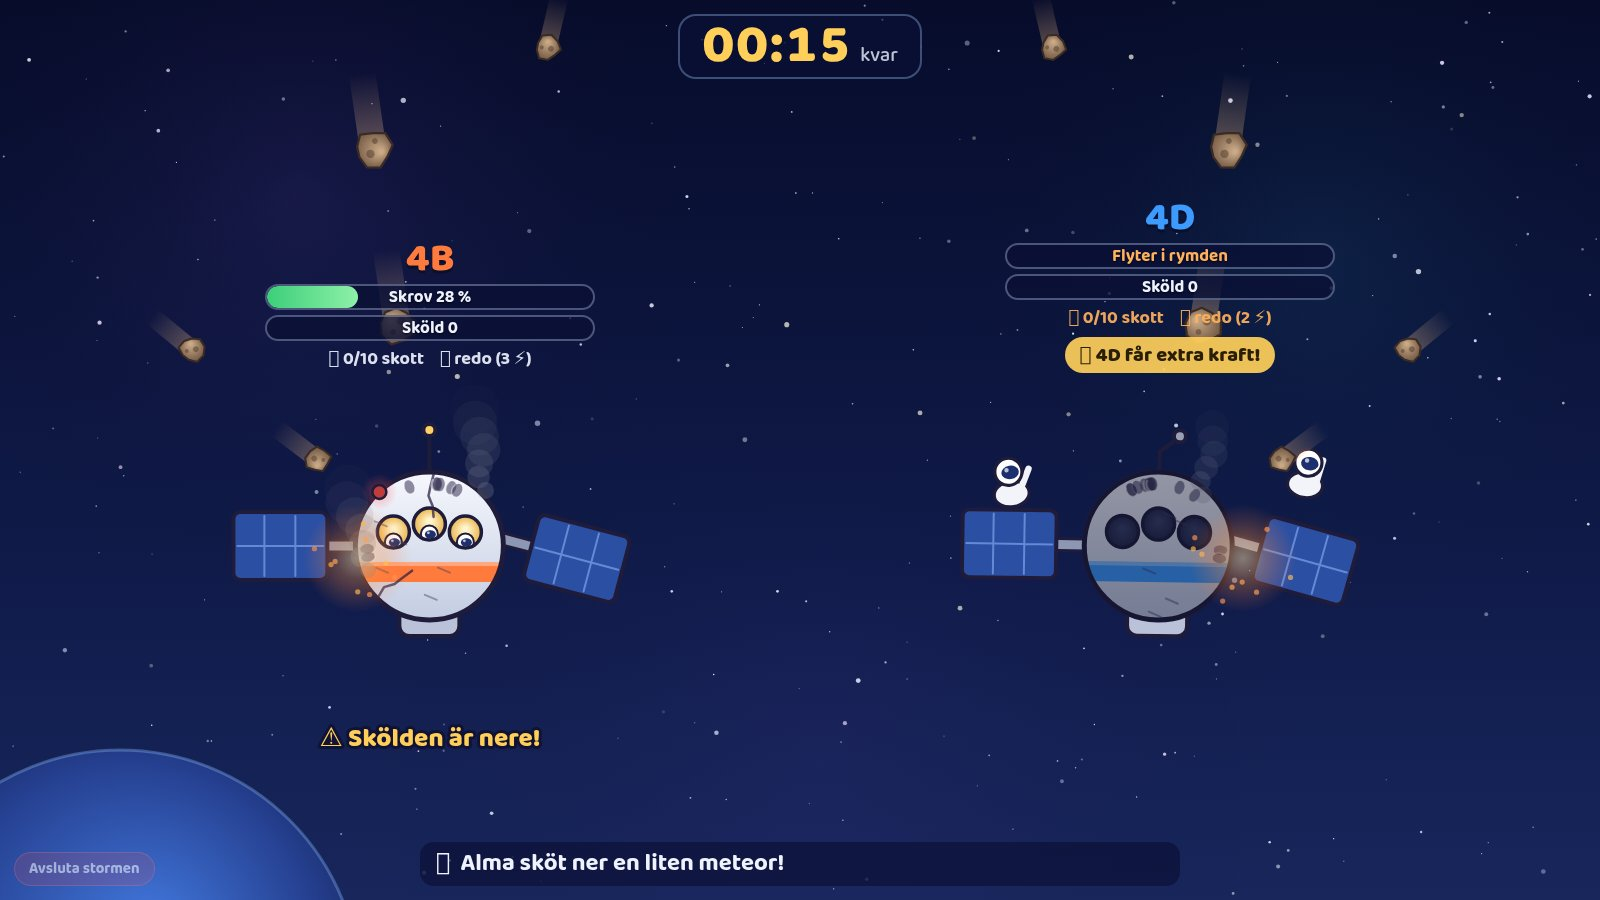
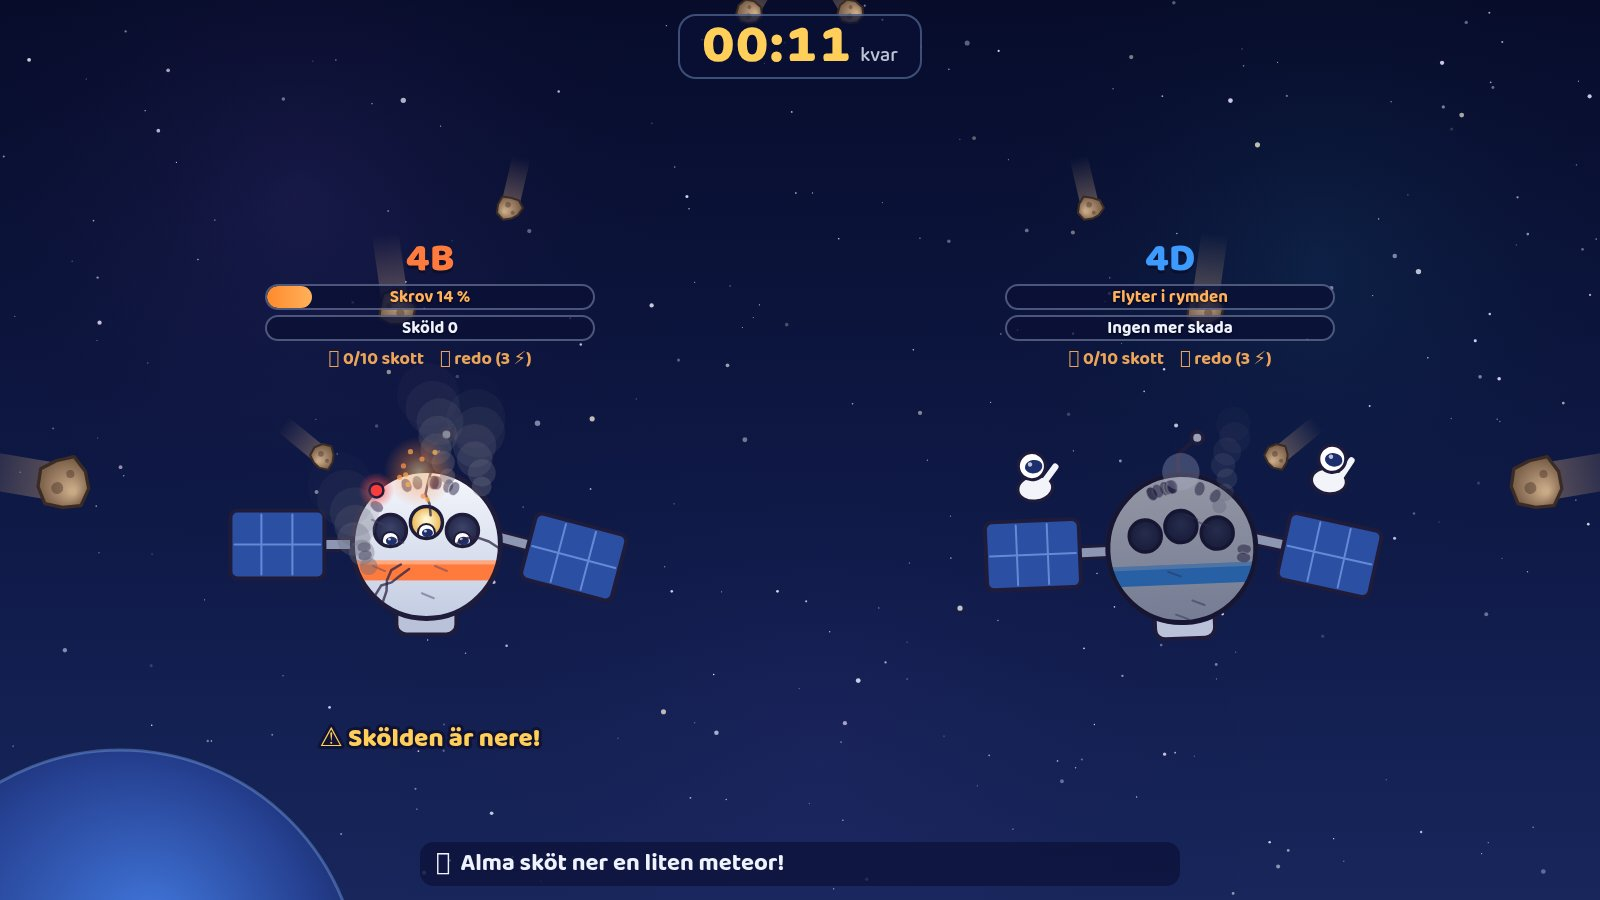
issue #822 F1/N1/N2: buffert 3 s som växer med uppmätt leverans (tak 8 s, krymper aldrig, klockan bromsar ≥0,8), flyter-läget konsekvent (ingen bubbla, 'Ingen mer skada', nedslag vid skrovet), skadescenariot i docs §12.4, CPU-strypning i §12.5

diff --git a/preview/preview-meteorstorm-demo.html b/preview/preview-meteorstorm-demo.html
@@ -48,7 +48,7 @@
       <div class="pv-body">
         <span class="pv-note">Simulerad storm i webbläsaren – ingen Firestore, inga Cloud Functions, inga riktiga elever,
           resultat eller pluggmynt. Stormen och stationerna räknas av den riktiga motorn. Projektorn ritar
-          1,5 s efter "nu" (renderingsbufferten). Ljud: klicka i sidan en gång.</span>
+          3 s efter "nu" (renderingsbufferten). Ljud: klicka i sidan en gång.</span>
         <b>Börja i (startar om)</b>
         <button data-go="fas=lobby">Tom lobby</button>
         <button data-go="fas=storm">Pågående storm</button>

diff --git a/docs/METEORSTORMEN.md b/docs/METEORSTORMEN.md
@@ -77,7 +77,7 @@ rendering).
 - `resultat` (när `klart`): se §3.7
 
 **Billig varje bildruta (Elias 2026-10-21):** projektorn ritar `nu − RENDER_FORDROJNING_MS`
-(1500 ms). `simulera` återanvänder en motor per frö/klasser/inställningar och
+(3000 ms – #822 F1; projektorn växer bufferten vid sämre nät, §12.2). `simulera` återanvänder en motor per frö/klasser/inställningar och
 stegar vidare från senaste tid. Bara om loggen ändrats *före* den redan beräknade
 tiden spolas den tillbaka till närmaste kontrollpunkt (var 5:e s). En hel match
 med 4000 handlingar tar några ms i node. `skapaMotor(cfg)` ger samma motor direkt
@@ -665,6 +665,7 @@ och `preview/preview-meteorstorm-historik.html`.
 | --- | --- |
 | `index.js` | Formatobjektet = `{ id, …projektordelarna, ...MS_ELEV_DELAR }` (D:s `ms-format-elev.js`, §11). **C:s del:** namn/ikon/svarssätt/takt, `compatibleGameModes`, `computeStandings` (klasser + anslutna elever), `emitOnPlayers`, `projectorViews`. `music` saknas tills E lägger in filen (ingen 🎵-knapp, ingen 404) |
 | `meteorstorm-projector.js` | Projektorskalets modul: vyn ☄ Rymden (`finale`), lobbyn, `ownTimer` |
+| `msp-buffert.js` | **Ren**: den anpassade renderingsbufferten (§12.2) |
 | `msp-scen.js` | **Ren** logik (node-testad): motorns indata ur sessionen, slutet, `handlingarUr` (hoppar över `typ: "fel"`), renderingsklockan `stegaKlocka`, stationernas platser, meteorernas banor, loggindexet (kast, träffar, flödet), banderollen, besättningens humör, gunget, kosmetisk slump `brus(frö, nyckel)` |
 | `msp-rymd.js` | Vyn: DOM, EN `watchEvents`-lyssnare, bildrutsloopen, ljud, `__mspProjektor` (QA) |
 | `msp-bild.js` | En bildruta på Canvas 2D – används av vyn, lobbyn och motor-previewn |
@@ -672,17 +673,25 @@ och `preview/preview-meteorstorm-historik.html`.
 | `msp-hud.js`, `msp-slut.js`, `msp-lobby.js`, `msp-ljud.js` | Textlagret (klocka, banderoll, mätare, flödet), slutrutan, lobbyn, ljuden |
 | `msp-demo.js` + `preview/preview-meteorstorm-demo.html` | Demoläget (LIVE-FORMAT §8) |
 | `meteorstorm-projektor.css` | Bara `msp-`-klasser |
-| `test/live-meteorstorm-projektor.test.js` | 23 tester (se §12.6) |
-| `admin/qa-meteorstorm-fps.mjs`, `admin/qa-meteorstorm-tva.mjs`, `preview/qa-meteorstorm-projektor.html` | Mätningarna i §12.4–12.5 |
+| `test/live-meteorstorm-projektor.test.js` | 25 tester (se §12.6) |
+| `admin/qa-meteorstorm-fps.mjs`, `admin/qa-meteorstorm-tva.mjs`, `admin/qa-meteorstorm-tva-revision.mjs` (testarens skadescenario), `preview/qa-meteorstorm-projektor.html` | Mätningarna i §12.4–12.5 |
 
 Allt laddas latt (`projectorViews()` = `import()`); bootgrafen är 107 filer som förut.
 
 ### 12.2 Renderingsbufferten och samma bild på två projektorer
 
-- Vyn ritar motorns tillstånd för `t = deps.now() − RENDER_FORDROJNING_MS` (1 500 ms,
-  `ms-balans.js`; `deps.now()` = `live-clock.js` `serverNow`). `stegaKlocka` låter `t`
-  följa målet med verklig tid, rättar mjukt (högst 8 % fart) och hoppar bara **framåt**
-  (> 2 s efter, t.ex. flik i bakgrunden). `t` går aldrig bakåt.
+- Vyn ritar motorns tillstånd för `t = deps.now() − buffert` (`deps.now()` =
+  `live-clock.js` `serverNow`). **Bufferten** (`msp-buffert.js`, #822 F1) börjar på
+  `RENDER_FORDROJNING_MS` = **3 000 ms** (`ms-balans.js`, samma tal i serverns
+  `msPublic/status`) och **växer** när händelserna når just den här projektorn sent:
+  varje ny händelses leveranstid mäts (ankomst på den server-korrigerade klockan −
+  händelsens serverstämpel `t`; historiken i första ögonblicksbilden räknas inte) och
+  bufferten blir ≈ p95 + 0,5 s, högst **8 s**. Den **krymper aldrig** under matchen.
+- `stegaKlocka` låter `t` följa målet med verklig tid: när bufferten växer saktar
+  klockan in (fart ≥ 0,8, aldrig ett hopp bakåt), annars rättar den högst 8 % och
+  hoppar bara **framåt** (> 2 s efter, t.ex. flik i bakgrunden). `t` går aldrig bakåt.
+- **Avvägningen:** på ett dåligt nät ligger bilden längre efter elevernas tryck (upp
+  till 8 s), och över taket kan en händelse fortfarande ändra en redan visad ruta.
 - Allt som ritas är en funktion av (sessionen, loggen, fröet, `t`): explosioner, laser,
   vågor i skölden, bucklor, rök, gnistor, gung och besättningens humör räknas ur
   motorns `logg` och postens ålder – ingen partikelstat. Kosmetisk slump kommer ur
@@ -713,32 +722,53 @@ Allt laddas latt (`projectorViews()` = `import()`); bootgrafen är 107 filer som
   och båda projektorerna – ingen annan Live-projektor har paus heller. Kontrollerna
   är skalets: Avsluta, ljud, 🎵 musik (när E lagt in filen) och fullskärm.
 
-### 12.4 Två projektorer med nätfördröjning (uppmätt)
+### 12.4 Två projektorer med nätfördröjning (uppmätt, skadescenariot)
 
-`flock /tmp/pp-821-emulator.lock node admin/qa-meteorstorm-tva.mjs --latens 300,1500 --sek 90`
-– Firestore-emulatorn (öppna QA-regler; reglerna testas i `test:rules`), en pågående
-Klass mot klass-session (20 + 20 elever, finalen inom mätningen), historiken skriven i
-ett svep och nya `msEvents` i realtid som servern skriver dem. Två **separata**
-huvudlösa Chromium med den riktiga projektorn (`projector.js` → `live-feed` +
-`meteorstorm-data.js`), DevTools-fördröjning på varje anrop/long-poll. Var 3:e s ritar
-båda bildrutan för samma `t` i en egen canvas och pixlarnas fingeravtryck jämförs.
+```
+flock /tmp/pp-821-emulator.lock node admin/qa-meteorstorm-tva-revision.mjs \
+  --latens 300,700 --sek 90 --p4b 0.3 --p4d 0.22 --attacker vilda      # och 1000,1500 · 1500,3000
+```
 
-| Fördröjning A / B | Samma `t` = nu − 6 s | Samma `t` = nu − 1,5 s (det som ritas) | Sena handlingar A / B | `t` bakåt | Största ryck i `t` |
+Testarens rigg (bygger på `admin/qa-meteorstorm-tva.mjs`): Firestore-emulatorn (öppna
+QA-regler; reglerna testas i `test:rules`), en pågående Klass mot klass-session (20 + 20
+elever) som spelas **dåligt** (30 % / 22 % rätt, Vilda) så att skölden går upp och ner,
+skrovet tar skada och dragstrålar flyger – finalen inom mätningen. Historiken skrivs i
+ett svep, nya `msEvents` i realtid som servern skriver dem. Två **separata** huvudlösa
+Chromium med den riktiga projektorn (`projector.js` → `live-feed` +
+`meteorstorm-data.js`), DevTools-fördröjning på varje anrop/long-poll (QA-proxyn tvingar
+long-poll, så den verkliga leveranstiden blir längre än den nominella).
+
+- **Visade rutor ändrade i efterhand:** var 0,5 s sparas den ruta som faktiskt ritades
+  (tillståndets fingeravtryck + bild + textlagret); i slutet ritas samma `t` om med hela
+  loggen. "Ändrade" = tillståndet skilde sig, "synligt" = > 30 px skiljer sig.
+- **Identiskt vid samma `t`:** var 3:e s ritar båda samma `t` i en egen canvas – det `t`
+  som visas just nu (den äldre av de två) och nu − 10 s.
+
+| Nominell fördröjning | Uppmätt leverans median / p95 / max | Buffert i slutet | Visade rutor ändrade i efterhand (tillstånd / synligt / text) | Identiskt vid visad `t` · nu − 10 s | `t` bakåt |
 | --- | --- | --- | --- | --- | --- |
-| 300 / 1 500 ms (90 s) | 29/29 identiska | 28/29 | 0 / 318 (av 320 nya händelser) | 0 / 0 | 5 / 7 ms |
-| 600 / 1 000 ms (60 s) | 20/20 identiska | 19/20 | 0 / 119 (av 228) | 0 / 0 | 8 / 8 ms |
+| 300 ms | 0,6 / 0,8 / 1,2 s | 3,0 s | 0 av 185 | 29/29 · 29/29 (med 700) | 0 |
+| 700 ms | 1,3 / 1,6 / 1,8 s | 3,0 s | 0 av 196 | (se 300) | 0 |
+| 1 000 ms | 1,7 / 2,3 / 2,5 s | 3,0 s | 0 av 186 | 29/29 · 29/29 (med 1 500) | 0 |
+| 1 500 ms | 2,4 / 3,2 / 3,4 s | 3,9 s | 1 av 200 (0 synliga, 0 text) | (se 1 000) | 0 |
+| 1 500 ms (andra körningen) | 2,6 / 3,9 / 7,9 s | 4,7 s | 2 av 186 (0 synliga, 0 text) | 25/29 · 29/29 (med 3 000) | 0 |
+| 3 000 ms | 4,9 / 6,2 / 6,5 s | 7,0 s | 20 av 199 (1 synlig, 15 text) | (se 1 500) | 0 |
 
-- **Jämn:** `t` gick aldrig bakåt, och steget per bildruta avvek högst 8 ms från
-  verklig tid (bildrutor efter en hängning > 100 ms räknas inte).
-- **Identisk:** när båda har fått samma händelser är bilden pixel för pixel lika.
-- **Men:** "sena" = handlingar som kom fram efter att deras tid redan ritats. Med
-  DevTools-fördröjning ≥ 1 000 ms per anrop blir händelsernas väg (long-poll + nytt
-  anrop) längre än bufferten på 1,5 s, och projektorn ritar då om ett redan visat
-  ögonblick (mätarna hoppar lite; ett laserskott kan komma en bråkdel tidigare än
-  det syntes). Bilden går aldrig bakåt i tid, men den kan "ändra det förflutna" en
-  aning. ❓ **Till Elias:** räcker 1,5 s, eller ska `RENDER_FORDROJNING_MS` upp till
-  ~3 s (allt på projektorn kommer då 3 s efter elevens tryck)? Talet ligger i
-  `ms-balans.js` och styr även serverns `msPublic/status`.
+(Före F1, med fast buffert 1,5 s, mätte testaren 88 av 203 ändrade rutor vid 1 500 ms,
+16 synliga – t.ex. "⚠ Skölden är nere!" utan bubbla där facit hade 1/60.)
+
+- **Leverans ≤ ~3 s (nominellt ≤ 1 000 ms):** inga visade rutor ändras, de två
+  projektorerna är identiska vid samma `t`.
+- **Leverans 3–4 s:** bufferten växer till ~4–5 s; enstaka rutor ändras i
+  tillståndet men inget syns.
+- **Leverans 5–6 s (nominellt 3 000 ms):** bufferten växer till ~7 s, men medan den
+  växer (fart 0,8 → ~20 s för +4 s) ritas ~10 % av rutorna om, ett fåtal synligt.
+  Ovanför taket (8 s) garanteras ingen identitet.
+- **Jämn:** `t` gick aldrig bakåt. Steget per bildruta avviker från verklig tid bara
+  när klockan bromsar (högst 20 % av bildrutan, ≤ 20 ms vid långa bildrutor).
+- ❓ **Till Elias:** 3 s fast bas + växande buffert (tak 8 s) ger identiska projektorer
+  upp till ~3 s verklig leverans. Priset är att allt på projektorn kommer 3 s efter
+  elevens tryck – och mer på ett dåligt nät. Är 3 s / 8 s rätt nivå, eller hellre
+  kortare bas (snabbare respons, men enstaka ritas om på långsamma nät)?
 
 ### 12.5 Bilder per sekund (uppmätt)
 
@@ -755,6 +785,9 @@ bildruta för motorn + hela ritningen.
 | 1920 × 1080 | mitten | 60 | 16,7 ms | 1,2 / 3,0 ms |
 
 Två projektorer i samma maskin samtidigt (§12.4, 1600 × 900, två Chromium + emulatorn på 6 kärnor): 37–56 fps beroende på körning, JS 0,7–0,9 ms per bildruta.
+Testaren (#822): med 4× CPU-strypning och `--disable-gpu` blir det 21 fps – 2,2 s av
+var 3:e s går till Commit/DoUpdateLayers (uppladdning av mjukvarucanvasen), JS bara
+~5 ms per bildruta. Det är rastret utan GPU som begränsar, inte ritningen.
 Budgeten för 60 fps är 16,7 ms; ritningen tar en tiondel. I Barista-webbläsaren
 (SwiftShader, delad med andra flikar) blev det 18 fps i 1920 × 1080 med samma JS-tid
 (2,5 ms) – där är det mjukvarurastret, inte projektorn, som begränsar. En vanlig
@@ -763,8 +796,10 @@ ritas en gång per storlek; canvasen är högst 2048 px bred (`devicePixelRatio`
 
 ### 12.6 Testat
 
-`node --test test/live-meteorstorm-projektor.test.js` (23): formatobjektet
-(giltigt, latt, ingen musik än, `buildResult` = serverns result), indata
+`node --test test/live-meteorstorm-projektor.test.js` (25): formatobjektet
+(giltigt, latt, ingen musik än, slutet via D:s `resultInputs`/`buildResult`), den
+anpassade bufferten (3 s, växer till p95 + marginal, tak, krymper aldrig; klockan
+saktar in med fart ≥ 0,8 och går aldrig bakåt), indata
 (`msStationer` saknas → 1, lärarens avslut), `typ: "fel"` hoppas över, klockan går
 aldrig bakåt (2 000 skakiga steg), loggindexet live = sent öppnad = efter
 tillbakaspolning, flödet (bara positivt, högst 4 rader, specens texter, namn av),
@@ -779,7 +814,7 @@ bara `msp-`-klasser) och demot.
 `docs/meteorstormen-822/`: `skadenivaer.jpg` (alla fem nivåerna med sköldens
 lägen), `slungad.jpg` (slungad meteor med svans och "från 4B"), `jattemeteor.jpg`
 (banderoll + nedräkning), `en-klass.jpg` (en station, Kometsvans), `finalen.jpg`
-(skador, "⚠ Skölden är nere!", besättningen i rymddräkter, "🚀 4D får extra
-kraft!"), `slut-kmk.jpg`, `slut-en-klass.jpg`, `lobby.jpg`, `tva-a.jpg`/`tva-b.jpg`
+(skador, orange skrovmätare, "⚠ Skölden är nere!", 4D flyter – ingen bubbla, "Ingen mer
+skada", besättningen i rymddräkter), `slut-kmk.jpg`, `slut-en-klass.jpg`, `lobby.jpg`, `tva-a.jpg`/`tva-b.jpg`
 (två projektorer frysta på samma `t`). Huvudlös Chromium saknar emoji-typsnitt –
 rutorna visas som emoji i en vanlig webbläsare.
